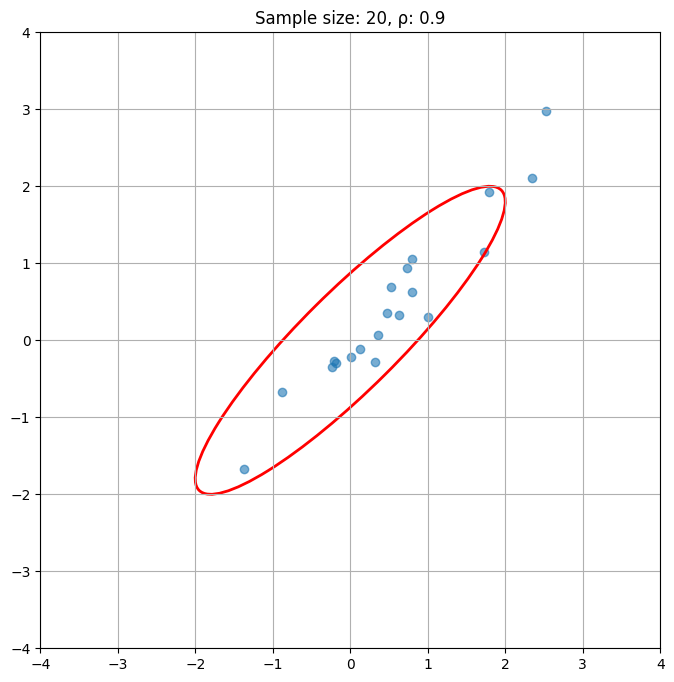
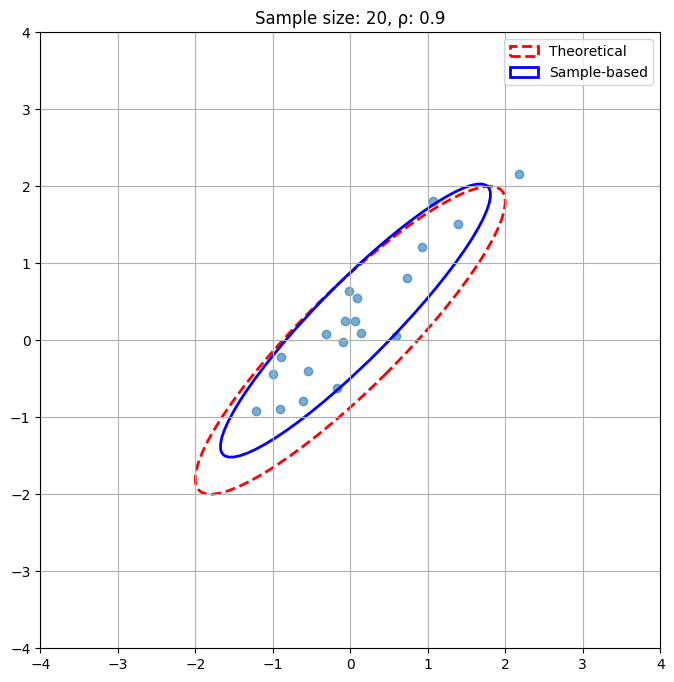
Fixed graphs

diff --git a/compute.py b/compute.py
@@ -133,70 +133,48 @@ def generate_mixture_samples(sizes, n_iterations=1000):
 
 def plot_samples_and_ellipse(size, rho):
     """
-    Visualization of samples and equal probability ellipse
+    Visualization of samples and equal probability ellipses
+    (theoretical and sample-based)
     """
-    cov = np.array([[1, rho], [rho, 1]])
-    data = np.random.multivariate_normal(mean=[0, 0], cov=cov, size=size)
+    # Theoretical covariance
+    cov_theory = np.array([[1, rho], [rho, 1]])
+    data = np.random.multivariate_normal(mean=[0, 0], cov=cov_theory, size=size)
 
-    # Calculate ellipse parameters
-    lambda_, v = np.linalg.eig(cov)
-    lambda_ = np.sqrt(lambda_)
+    # Sample covariance
+    cov_sample = np.cov(data, rowvar=False)
 
     fig, ax = plt.subplots(figsize=(8, 8))
     ax.scatter(data[:, 0], data[:, 1], alpha=0.6)
 
-    # Draw ellipse (2 standard deviations)
-    ellipse = Ellipse(xy=(0, 0),
-                      width=2 * lambda_[0] * 2,  # 2 standard deviations
-                      height=2 * lambda_[1] * 2,
-                      angle=np.degrees(np.arccos(v[0, 0])),
-                      edgecolor='r', fc='None', lw=2)
-    ax.add_patch(ellipse)
+    # Draw theoretical ellipse (red)
+    lambda_theory, v_theory = np.linalg.eig(cov_theory)
+    lambda_theory = np.sqrt(lambda_theory)
+    ellipse_theory = Ellipse(xy=(0, 0),
+                             width=2 * lambda_theory[0] * 2,
+                             height=2 * lambda_theory[1] * 2,
+                             angle=np.degrees(np.arccos(v_theory[0, 0])),
+                             edgecolor='r', fc='None', lw=2, linestyle='--',
+                             label='Theoretical')
+    ax.add_patch(ellipse_theory)
+
+    # Draw sample ellipse
+    if size > 1:  # Covariance is defined for sample size > 1
+        lambda_sample, v_sample = np.linalg.eig(cov_sample)
+        lambda_sample = np.sqrt(lambda_sample)
+        ellipse_sample = Ellipse(xy=(np.mean(data[:, 0]), np.mean(data[:, 1])),
+                                 width=2 * lambda_sample[0] * 2,
+                                 height=2 * lambda_sample[1] * 2,
+                                 angle=np.degrees(np.arccos(v_sample[0, 0])),
+                                 edgecolor='b', fc='None', lw=2,
+                                 label='Sample-based')
+        ax.add_patch(ellipse_sample)
 
     ax.set_xlim(-4, 4)
     ax.set_ylim(-4, 4)
     ax.set_title(f'Sample size: {size}, ρ: {rho}')
+    ax.legend()
     ax.grid(True)
 
     filename = f'plots/normal_dist_size_{size}_rho_{rho}.png'
-    plt.savefig(filename, bbox_inches='tight', dpi=100)
-    plt.close(fig)
-
-
-def plot_mixture_samples(size):
-    """
-    Visualization of samples from mixture distribution
-    """
-    cov1 = np.array([[1, 0.9], [0.9, 1]])
-    cov2 = np.array([[10, -0.9], [-0.9, 10]])
-
-    n1 = int(0.9 * size)
-    n2 = size - n1
-
-    data1 = np.random.multivariate_normal(mean=[0, 0], cov=cov1, size=n1)
-    data2 = np.random.multivariate_normal(mean=[0, 0], cov=cov2, size=n2)
-    data = np.vstack((data1, data2))
-
-    fig, ax = plt.subplots(figsize=(8, 8))
-    ax.scatter(data[:, 0], data[:, 1], alpha=0.6)
-
-    # Ellipses for each distribution in the mixture
-    for cov, color in [(cov1, 'r'), (cov2, 'g')]:
-        lambda_, v = np.linalg.eig(cov)
-        lambda_ = np.sqrt(lambda_)
-
-        ellipse = Ellipse(xy=(0, 0),
-                          width=2 * lambda_[0] * 2,
-                          height=2 * lambda_[1] * 2,
-                          angle=np.degrees(np.arccos(v[0, 0])),
-                          edgecolor=color, fc='None', lw=2)
-        ax.add_patch(ellipse)
-
-    ax.set_xlim(-15, 15)
-    ax.set_ylim(-15, 15)
-    ax.set_title(f'Mixture distribution, sample size: {size}')
-    ax.grid(True)
-
-    filename = f'plots/mixture_dist_size_{size}.png'
     plt.savefig(filename, bbox_inches='tight', dpi=100)
     plt.close(fig)

diff --git a/main.py b/main.py
@@ -17,6 +17,5 @@ if not os.path.exists('plots'):
 for size in sizes:
     for rho in rhos:
         compute.plot_samples_and_ellipse(size, rho)
-        compute.plot_mixture_samples(size)
 
 print("\nPlots are saved in 'plots' folder")
